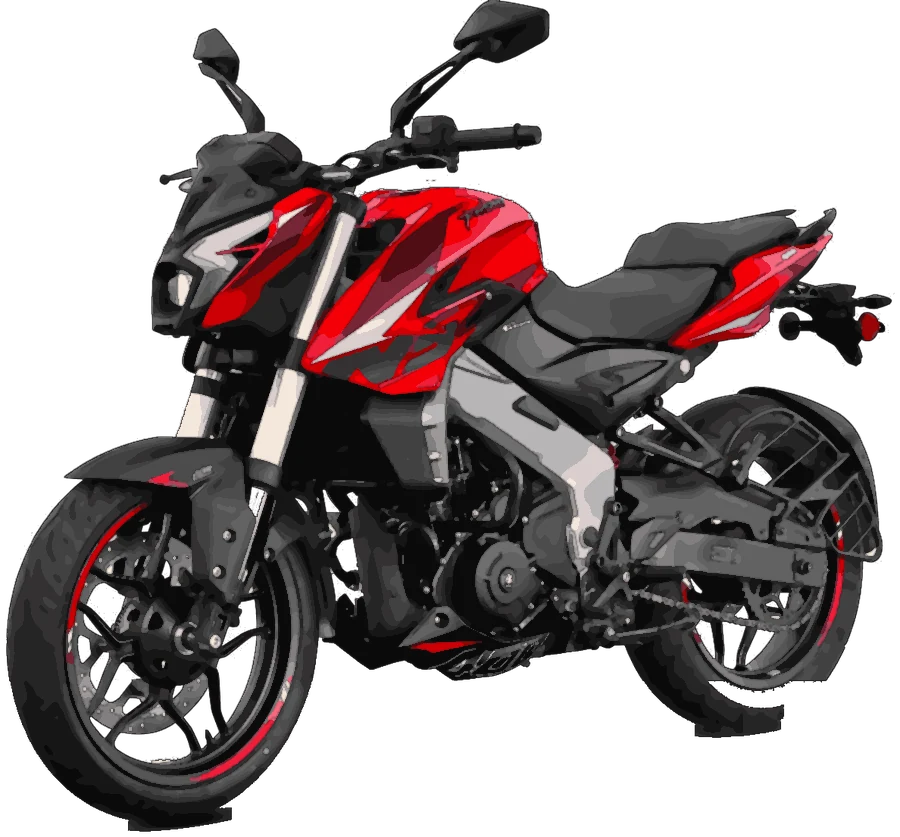
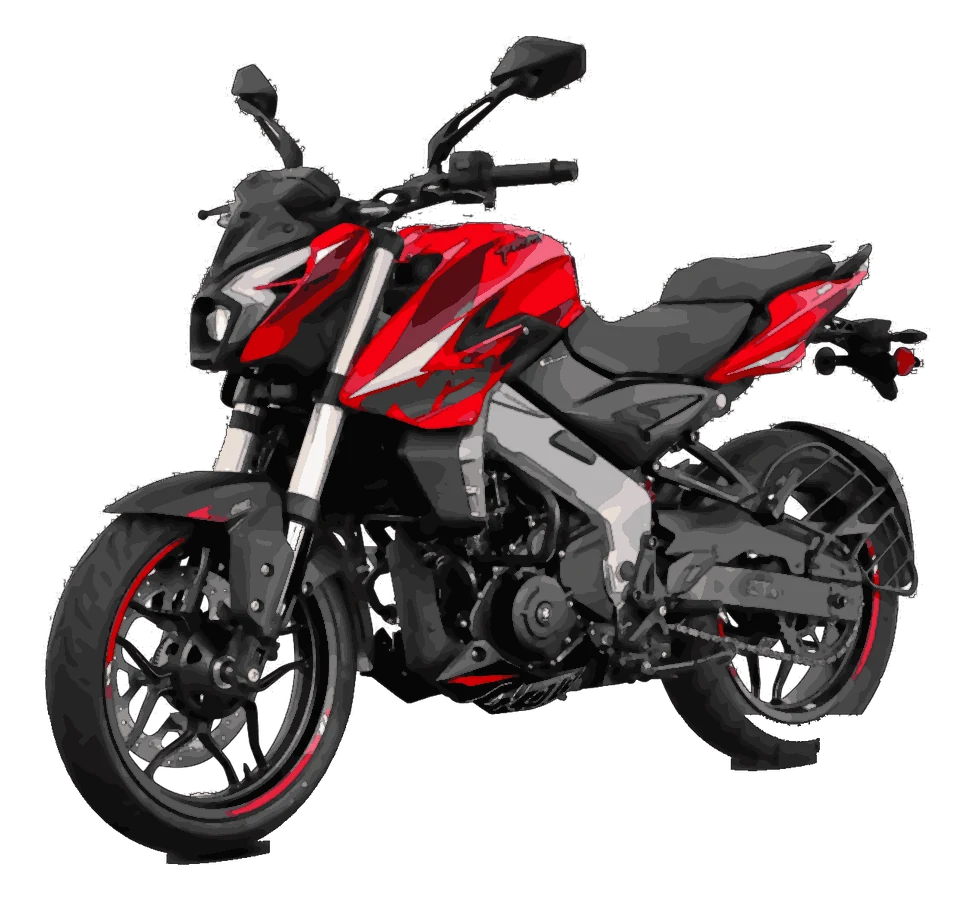
Alerts and Notifications tabs, profile details section, paging swipe, uncut bike art
- Logbook: Overdue pill on its own line, interval wraps to two lines
- Alerts page: Alerts tab (things to act on) and Notifications tab (calls, chats, feed); no repeats
- Alerts card buttons share the card width
- Profile card: name on top, blood group / ICE / medical notes as rows below
- Tab bar swipe pages one tab at a time: left for next, right for previous
- Bike art: only pure-white backdrop removed (plates and screens stay), padded edges

Claude-Session: https://claude.ai/code/session_011svZSxEu7wpuhhs3qeC1tv

diff --git a/js/views.js b/js/views.js
@@ -399,7 +399,7 @@ export function serviceRow(it, st) {
   const v = rowValue(st);
   const tone = st.status === 'overdue' ? 'r' : st.status === 'soon' ? 'a' : 's';
   return `<button class="row has-ic" data-act="sheet" data-arg="svc:${it.id}" data-flip="${it.id}">
-    <div class="row-top"><div class="row-main"><span class="row-ic ${tone}">${icon(it.icon || 'wrench')}</span><div style="min-width:0"><div class="row-title">${esc(it.name)}</div><div class="row-sub">${st.status === 'overdue' ? '<span class="opill">Overdue</span>' : ''}${everyText(it)}</div></div></div>
+    <div class="row-top"><div class="row-main"><span class="row-ic ${tone}">${icon(it.icon || 'wrench')}</span><div style="min-width:0"><div class="row-title">${esc(it.name)}</div><div class="row-sub">${everyText(it)}</div>${st.status === 'overdue' ? '<div class="row-pill"><span class="opill">Overdue</span></div>' : ''}</div></div>
     <div class="row-val"><span class="big">${v.v}</span><span class="unit">${v.u.replace(' overdue', '')}</span></div></div>
     ${st.status === 'soon' || st.status === 'overdue' ? serviceSegs(st) : ''}</button>`;
 }
@@ -652,23 +652,23 @@ export function alerts(c) {
   const { s, link, live } = c;
   const a = s.settings.alerts;
   const m = s.alerts.missed, w = s.alerts.wa;
-  const card = (ic, lab, n, sub, act, open) => `<div class="card pad"><div class="eyebrow flex gap8">${icon(ic).replace('<svg', '<svg style="width:14px;height:14px"')}${lab}</div><div class="big mt12" style="font-size:56px">${short(n)}</div><div class="small muted mt8 clamp1">${sub}</div><div class="push"></div><div class="ac-btns mt16">${open}<button class="btn line sm" data-act="sheet" data-arg="clear:${act}" ${n ? '' : 'disabled'}>Clear</button></div></div>`;
+  const card = (ic, lab, n, sub, act, open) => /* calls & chats */ `<div class="card pad"><div class="eyebrow flex gap8">${icon(ic).replace('<svg', '<svg style="width:14px;height:14px"')}${lab}</div><div class="big mt12" style="font-size:56px">${short(n)}</div><div class="small muted mt8 clamp1">${sub}</div><div class="push"></div><div class="ac-btns mt16">${open}<button class="btn line sm" data-act="sheet" data-arg="clear:${act}" ${n ? '' : 'disabled'}>Clear</button></div></div>`;
   const needs = inbox(c).filter((x) => x.ic !== 'missed' && x.ic !== 'chat');
   return `<div class="stagger">
   <div class="head pagehead"><div><h1 class="title">Alerts</h1><div class="subtitle">${needs.length ? `${plural(needs.length, 'thing needs', 'things need')} you` : 'Nothing needs you right now'}</div></div></div>
   ${(() => { const tab = live.alertsTab === 'recent' ? 'recent' : 'needs';
-    const needsHTML = needs.length ? `<div class="list">${needs.map((x) => li({ lead: `<span class="ic">${icon(x.ic)}</span>`, t: x.t, d: x.d, act: x.act, arg: x.arg })).join('')}</div>` : '<div class="card empty">Nothing needs you right now.</div>';
+    const needsHTML = needs.length ? `<div class="list">${needs.map((x) => li({ lead: `<span class="ic">${icon(x.ic)}</span>`, t: x.t, d: x.d, act: x.act, arg: x.arg })).join('')}</div>` : '<div class="card empty">Nothing needs you right now. Service, papers and fuel reminders show up here.</div>';
     // Recent: a notification feed, grouped by day. What reached the bike, when.
     const day = (ts) => { const d = new Date(ts), t = new Date(); t.setHours(0, 0, 0, 0); const y = t - 864e5; return ts >= +t ? 'Today' : ts >= y ? 'Yesterday' : d.toLocaleDateString(DL(), { day: 'numeric', month: 'short' }); };
     const NT = { wa: ['chat', 'WhatsApp message', 'Shown on your bike'], missed: ['missed', 'Missed call', 'Count sent to your bike'], call: ['phone', 'Incoming call', 'Name shown on your bike'], button: ['hand', 'Handlebar button', 'Pressed on the bike'] };
     let lastDay = '';
     const recentHTML = s.alerts.log.length ? s.alerts.log.slice(0, 30).map((x) => { const [ic, what, sub] = NT[x.kind] || NT.call, dd = day(x.ts), head = dd !== lastDay ? `<div class="nf-day">${dd}</div>` : ''; lastDay = dd;
       return `${head}<div class="nf"><span class="nf-ic">${icon(ic)}</span><div class="nf-tx"><div class="nf-t"><b>${esc(x.kind === 'button' ? 'Handlebar' : shortName(x.name))}</b><span class="nf-time">${new Date(x.ts).toLocaleTimeString(DL(), { hour: "numeric", minute: "2-digit" })}</span></div><div class="nf-d">${what} · ${sub}</div></div></div>`; }).join('') : '<div class="card empty">No notifications yet.</div>';
-    return `<div class="section" style="margin-top:20px"><div class="ltabs" role="tablist"><button role="tab" class="${tab === 'needs' ? 'on' : ''}" aria-selected="${tab === 'needs'}" data-act="alerts-tab" data-arg="needs">Needs you${needs.length ? `<span class="lt-n">${needs.length}</span>` : ''}</button><button role="tab" class="${tab === 'recent' ? 'on' : ''}" aria-selected="${tab === 'recent'}" data-act="alerts-tab" data-arg="recent">Recent</button></div><div class="lt-body" data-swipe-tabs="alerts-tab" data-tabs="needs,recent" data-cur="${tab}">${tab === 'needs' ? needsHTML : `<div class="nf-list">${recentHTML}</div>`}</div></div>`; })()}
-  <div class="section">${sh('Calls & messages', `<span class="eyebrow">${short(s.alerts.sent)} sent</span>`)}
-  <div class="two">${card('missed', 'Missed', m.length, m.length ? `Last: ${esc(shortName(m[m.length - 1].name))}` : 'None waiting', 'clear-missed', IS_IOS ? '' : `<a class="btn line sm" href="tel:" aria-label="Open the Phone app">${icon('phone')}Phone</a>`)}${card('chat', 'WhatsApp', w.length, w.length ? `Last: ${esc(shortName(w[w.length - 1].name))}` : 'None waiting', 'clear-wa', `<a class="btn line sm" href="whatsapp://" aria-label="Open WhatsApp">${icon('chat')}Chats</a>`)}</div>
-  <div class="dashed">${icon('lock')}<span>Only <b>names and counts</b> reach your bike. Message text never leaves this phone.</span></div>
-  </div>
+    const callsHTML = `<div class="two">${card('missed', 'Missed calls', m.length, m.length ? 'On your bike' : 'None waiting', 'clear-missed', IS_IOS ? '' : `<a class="btn line sm" href="tel:" aria-label="Open the Phone app">${icon('phone')}Phone</a>`)}${card('chat', 'WhatsApp', w.length, w.length ? 'On your bike' : 'None waiting', 'clear-wa', `<a class="btn line sm" href="whatsapp://" aria-label="Open WhatsApp">${icon('chat')}Chats</a>`)}</div>`;
+    const tabs = `<div class="ltabs" role="tablist"><button role="tab" class="${tab === 'needs' ? 'on' : ''}" aria-selected="${tab === 'needs'}" data-act="alerts-tab" data-arg="needs">Alerts${needs.length ? `<span class="lt-n">${needs.length}</span>` : ''}</button><button role="tab" class="${tab === 'recent' ? 'on' : ''}" aria-selected="${tab === 'recent'}" data-act="alerts-tab" data-arg="recent">Notifications${m.length + w.length ? `<span class="lt-n">${m.length + w.length}</span>` : ''}</button><span class="grow"></span><span class="eyebrow lt-aside">${short(s.alerts.sent)} sent</span></div>`;
+    const body = tab === 'needs' ? needsHTML : `${callsHTML}<div class="nf-list mt20">${recentHTML}</div>`;
+    return `<div class="section" style="margin-top:20px">${tabs}<div class="lt-body" data-swipe-tabs="alerts-tab" data-tabs="needs,recent" data-cur="${tab}">${body}</div></div>`; })()}
+  <div class="section"><div class="dashed">${icon('lock')}<span>Only <b>names and counts</b> reach your bike. Message text never leaves this phone.</span></div></div>
   <div class="section">${sh('Show on the bike', '', 'showbike')}<div class="list">
     ${li({ ic: 'phone', t: 'Phone calls', d: 'Caller name and missed calls', end: sw(a.calls, 'toggle', 'alerts.calls'), chev: false, tag: 'div' })}
     ${li({ ic: 'waCall', t: 'WhatsApp calls', d: 'Caller name while ringing', end: sw(a.waCalls, 'toggle', 'alerts.waCalls'), chev: false, tag: 'div' })}
@@ -701,7 +701,8 @@ export function settings(c) {
   return `<div class="stagger">
   <div class="head pagehead"><div><h1 class="title">You & your bikes</h1><div class="subtitle">Profile, garage and how the app looks</div></div></div>
   ${live.scenario ? previewBar(live) : ''}
-  <button class="card pad profile-card mt20 flex gap12" style="width:100%;text-align:left" data-act="go" data-arg="profile">${avatar(s.profile)}<div class="grow"><div class="serif pc-name">${esc(shortName(s.profile.name) || 'Add your name')}</div><div class="small faint">${s.profile.blood || s.profile.iceName ? [s.profile.blood ? `Blood ${esc(s.profile.blood)}` : '', s.profile.iceName ? `ICE ${esc(clip(s.profile.iceName, 14))}` : ''].filter(Boolean).join(' · ') : 'Licence, blood group, emergency contact'}</div>${s.profile.medical ? `<div class="small faint pc-med">${esc(clip(s.profile.medical, 40))}</div>` : ''}</div>${icon('chev', 'faint')}</button>
+  ${(() => { const P = s.profile, rows = [P.blood ? ['drop', 'Blood group', esc(P.blood)] : null, P.iceName ? ['phone', 'Emergency contact', esc(P.iceName)] : null, P.medical ? ['hospital', 'Medical notes', esc(P.medical)] : null].filter(Boolean);
+    return `<div class="card profile-card mt20"><button class="pc-top flex gap12" data-act="go" data-arg="profile">${avatar(P)}<div class="grow" style="min-width:0"><div class="serif pc-name">${esc(shortName(P.name) || 'Add your name')}</div><div class="small faint">${rows.length ? 'Rider profile' : 'Licence, blood group, emergency contact'}</div></div>${icon('chev', 'faint')}</button>${rows.length ? `<div class="pc-info">${rows.map(([ic, k, v]) => `<div class="pc-row">${icon(ic)}<span class="pc-k">${k}</span><span class="pc-v">${v}</span></div>`).join('')}</div>` : ''}</div>`; })()}
   <div class="section">${sh('Garage', s.vehicles.length > 1 ? '<button class="link" data-act="sheet" data-arg="garage">Switch</button>' : '')}
     <div class="card vcard"><button class="flex gap12" style="width:100%;text-align:left;padding:12px 16px 12px 12px" data-act="sheet" data-arg="garage" aria-label="Switch vehicle">
       ${vehicleArt(s, v, 'card')}

diff --git a/js/app.js b/js/app.js
@@ -1155,19 +1155,18 @@ function registerUpdates() {
     if (n) { A[box.dataset.swipeTabs](n); requestAnimationFrame(() => $('[data-swipe-tabs]')?.classList.add(dx < 0 ? 'in-l' : 'in-r')); }
   }, { passive: true });
 }
-// Slide a finger along the tab bar to jump to the tab under it.
+// Swipe on the tab bar to page between tabs, like swiping between pages:
+// swipe left for the next tab, right for the previous one. One step per swipe.
 {
-  let on = false, sx = 0, moved = false, hit = null;
-  const tabAt = (x, y) => document.elementFromPoint(x, y)?.closest?.('.tab');
-  document.addEventListener('touchstart', (e) => { on = !!e.target.closest('#tabbar'); sx = e.touches[0].clientX; moved = false; hit = null; }, { passive: true });
-  document.addEventListener('touchmove', (e) => {
-    if (!on) return; const t = e.touches[0]; if (Math.abs(t.clientX - sx) > 14) moved = true; if (!moved) return;
-    const tab = tabAt(t.clientX, Math.min(t.clientY, window.innerHeight - 30));
-    if (tab && tab !== hit) { hit = tab; $$('#tabbar .tab').forEach((b) => b.classList.toggle('scrub', b === tab)); buzz(4); }
-  }, { passive: true });
-  document.addEventListener('touchend', () => {
-    if (!on) return; on = false; $$('#tabbar .tab.scrub').forEach((b) => b.classList.remove('scrub'));
-    if (moved && hit && hit.dataset.arg !== screen) { A._lastToday = 0; go(hit.dataset.arg); }
-    if (moved) { A._skipTap = Date.now(); }
+  let on = false, sx = 0, sy = 0, t0 = 0;
+  document.addEventListener('touchstart', (e) => { on = !!e.target.closest('#tabbar'); if (!on) return; sx = e.touches[0].clientX; sy = e.touches[0].clientY; t0 = Date.now(); }, { passive: true });
+  document.addEventListener('touchend', (e) => {
+    if (!on) return; on = false;
+    const t = e.changedTouches[0], dx = t.clientX - sx, dy = t.clientY - sy;
+    if (Math.abs(dx) < 36 || Math.abs(dx) < Math.abs(dy) * 1.4 || Date.now() - t0 > 700) return;
+    const order = $$('#tabbar .tab').map((b) => b.dataset.arg), i = order.indexOf($('#tabbar .tab.on')?.dataset.arg || screen);
+    const next = order[(i < 0 ? 0 : i) + (dx < 0 ? 1 : -1)];
+    A._skipTap = Date.now();
+    if (next) { A._lastToday = 0; buzz(6); go(next); }
   }, { passive: true });
 }

diff --git a/styles.css b/styles.css
@@ -1567,3 +1567,20 @@ svg.i.ifill circle, svg.i.ifill rect, svg.i.ifill ellipse, svg.i.ifill path[d$="
 .nf-d { font-size: 13.5px; color: var(--ink-3); margin-top: 2px; white-space: nowrap; overflow: hidden; text-overflow: ellipsis; }
 /* Tab bar scrubbing */
 .tab.scrub { color: var(--ink) !important; } .tab.scrub svg { transform: scale(1.12); transition: transform .15s; }
+/* Logbook: the Overdue pill gets its own line, so the interval reads in full */
+.row-pill { margin-top: 6px; } .row-pill .opill { margin: 0; }
+/* Alerts cards: buttons share the card width evenly */
+.ac-btns { display: grid; grid-auto-flow: column; grid-auto-columns: 1fr; gap: 6px; }
+.ac-btns > * { height: 36px; padding: 0 6px !important; font-size: 13.5px; white-space: nowrap; overflow: hidden; min-width: 0; }
+.ac-btns svg { width: 15px; height: 15px; }
+.lt-aside { align-self: center; padding-bottom: 2px; }
+/* Profile card: name on top, details as a quiet sub-section */
+.profile-card { padding: 0 !important; overflow: hidden; }
+.profile-card .pc-top { width: 100%; text-align: left; align-items: center; padding: 16px 16px 16px 16px; }
+.pc-info { border-top: 1px solid var(--line); padding: 6px 16px 10px; }
+.pc-row { display: grid; grid-template-columns: 18px auto 1fr; align-items: center; gap: 10px; padding: 7px 0; font-size: 14px; }
+.pc-row svg { width: 17px; height: 17px; color: var(--ink-3); }
+.pc-k { color: var(--ink-3); white-space: nowrap; }
+.pc-v { color: var(--ink); text-align: right; min-width: 0; white-space: nowrap; overflow: hidden; text-overflow: ellipsis; }
+.row .row-sub { white-space: normal; display: -webkit-box; -webkit-line-clamp: 2; -webkit-box-orient: vertical; overflow: hidden; text-overflow: clip; }
+.profile-card .pc-name { font-size: 21px; }

diff --git a/sw.js b/sw.js
@@ -1,5 +1,5 @@
 // Waylink — offline shell. Caches the app's own files; fonts are cached as they load.
-const CACHE = 'waylink-v70';
+const CACHE = 'waylink-v71';
 const SHELL = ['./', 'index.html', 'styles.css', 'js/app.js', 'js/views.js', 'js/store.js', 'js/link.js', 'js/protocol.js', 'js/sound.js', 'js/icons-huge.js', 'manifest.webmanifest', 'icon.svg', 'img/logos/wl-loop-rust.svg', 'img/logos/wl-turns-rust.svg', 'img/logos/png/wl-loop-rust-180.png', 'img/bikes/manifest.json', 'img/bikes/ns200-art.webp', ];
 // Cache each file on its own, so one missing file can't block an update.
 self.addEventListener('install', (e) => { e.waitUntil(caches.open(CACHE).then((c) => Promise.all(SHELL.map((u) => c.add(new Request(u, { cache: 'reload' })).catch(() => {})))).then(() => self.skipWaiting())); });

diff --git a/tools/bike_illustrate.py b/tools/bike_illustrate.py
@@ -33,5 +33,8 @@ def illus(src, out, k=22, W=900):
     rim = cv2.morphologyEx(mm, cv2.MORPH_GRADIENT, np.ones((3, 3), np.uint8)).astype(bool)
     qf[rim] = qf[rim] * .35 + ink * .65
     o = cv2.cvtColor(np.clip(qf, 0, 255).astype(np.uint8), cv2.COLOR_BGR2RGB)
-    Image.fromarray(np.dstack([o, al])).save(out, quality=88, method=6)
+    res = Image.fromarray(np.dstack([o, al]))
+    # breathing room so nothing ever sits flush with the edge
+    p = int(max(res.size) * 0.04); canvas = Image.new('RGBA', (res.width + 2 * p, res.height + 2 * p), (0, 0, 0, 0)); canvas.paste(res, (p, p))
+    canvas.save(out, quality=88, method=6)
 for s_, o in zip(sys.argv[1::2], sys.argv[2::2]): illus(s_, o)

diff --git a/tools/bike_cutout.py b/tools/bike_cutout.py
@@ -12,7 +12,7 @@ def cut(src, out):
         # already transparent: drop the soft shadow (half-transparent) along the ground only
         a[band & (a < 250)] = 0
     else:
-        white = (mn > 236) & (sat < 14)
+        white = (mn > 249) & (sat < 8)
         # shadow: grey, unsaturated, in the ground band, touching the backdrop
         band2 = np.zeros((h, w), bool); band2[int(ybot - (ybot - ytop) * 0.26):, :] = True
         shadow = (band & (sat < 24) & (mn > 60)) | (band2 & (sat < 14) & (mn > 185))
